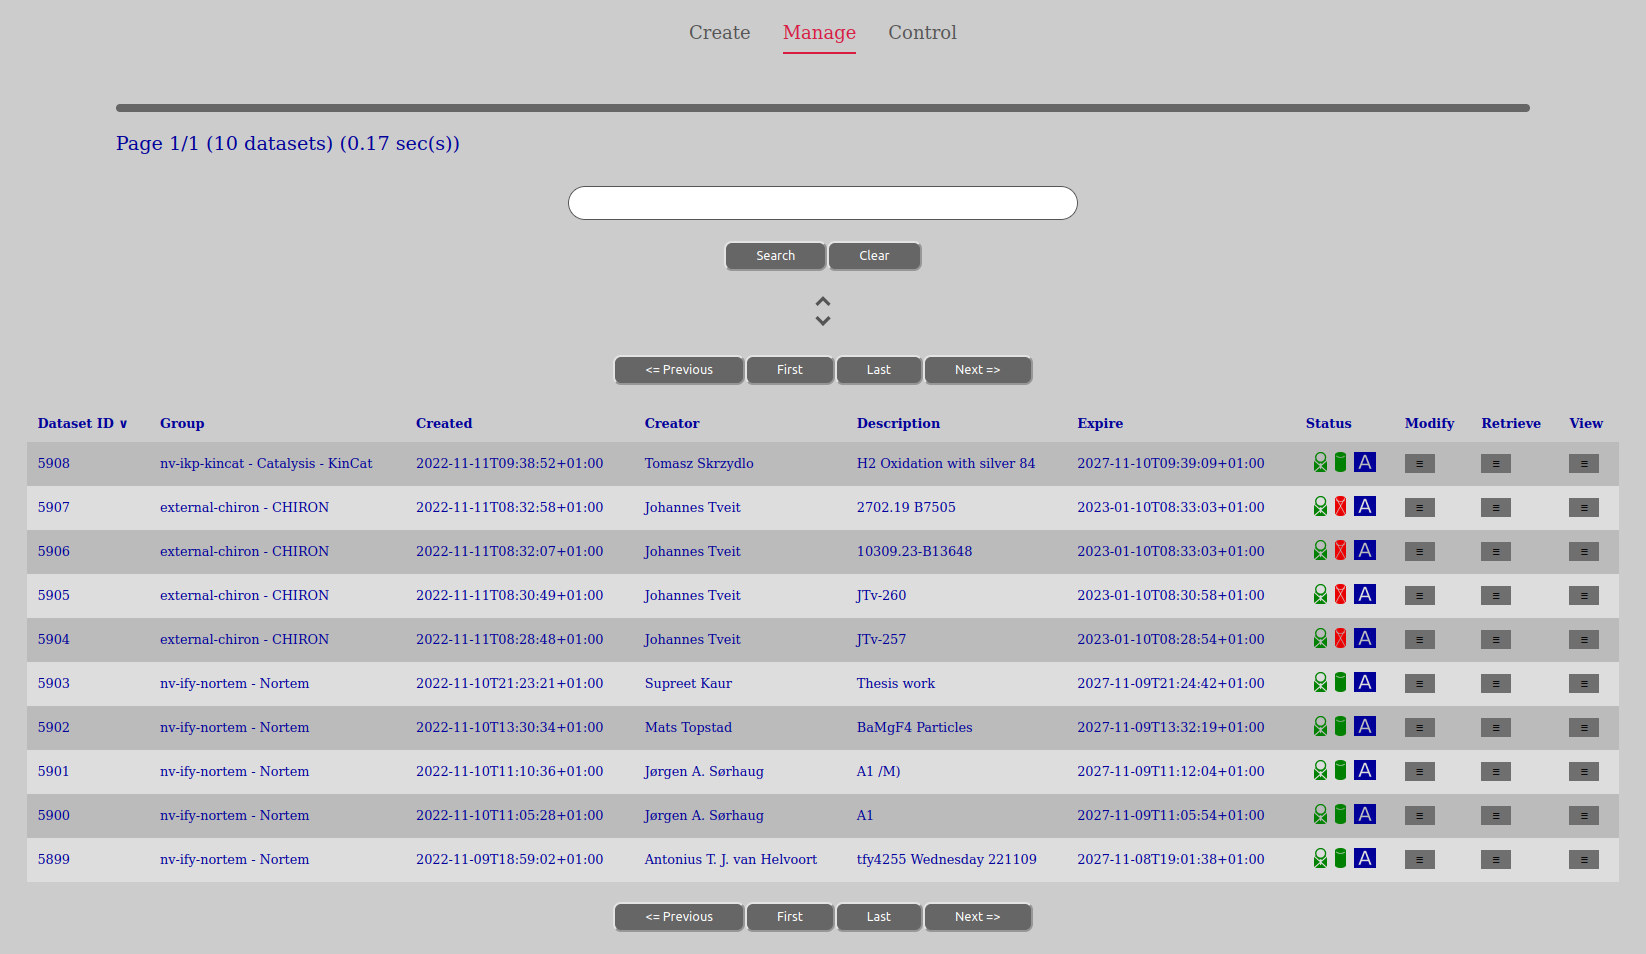
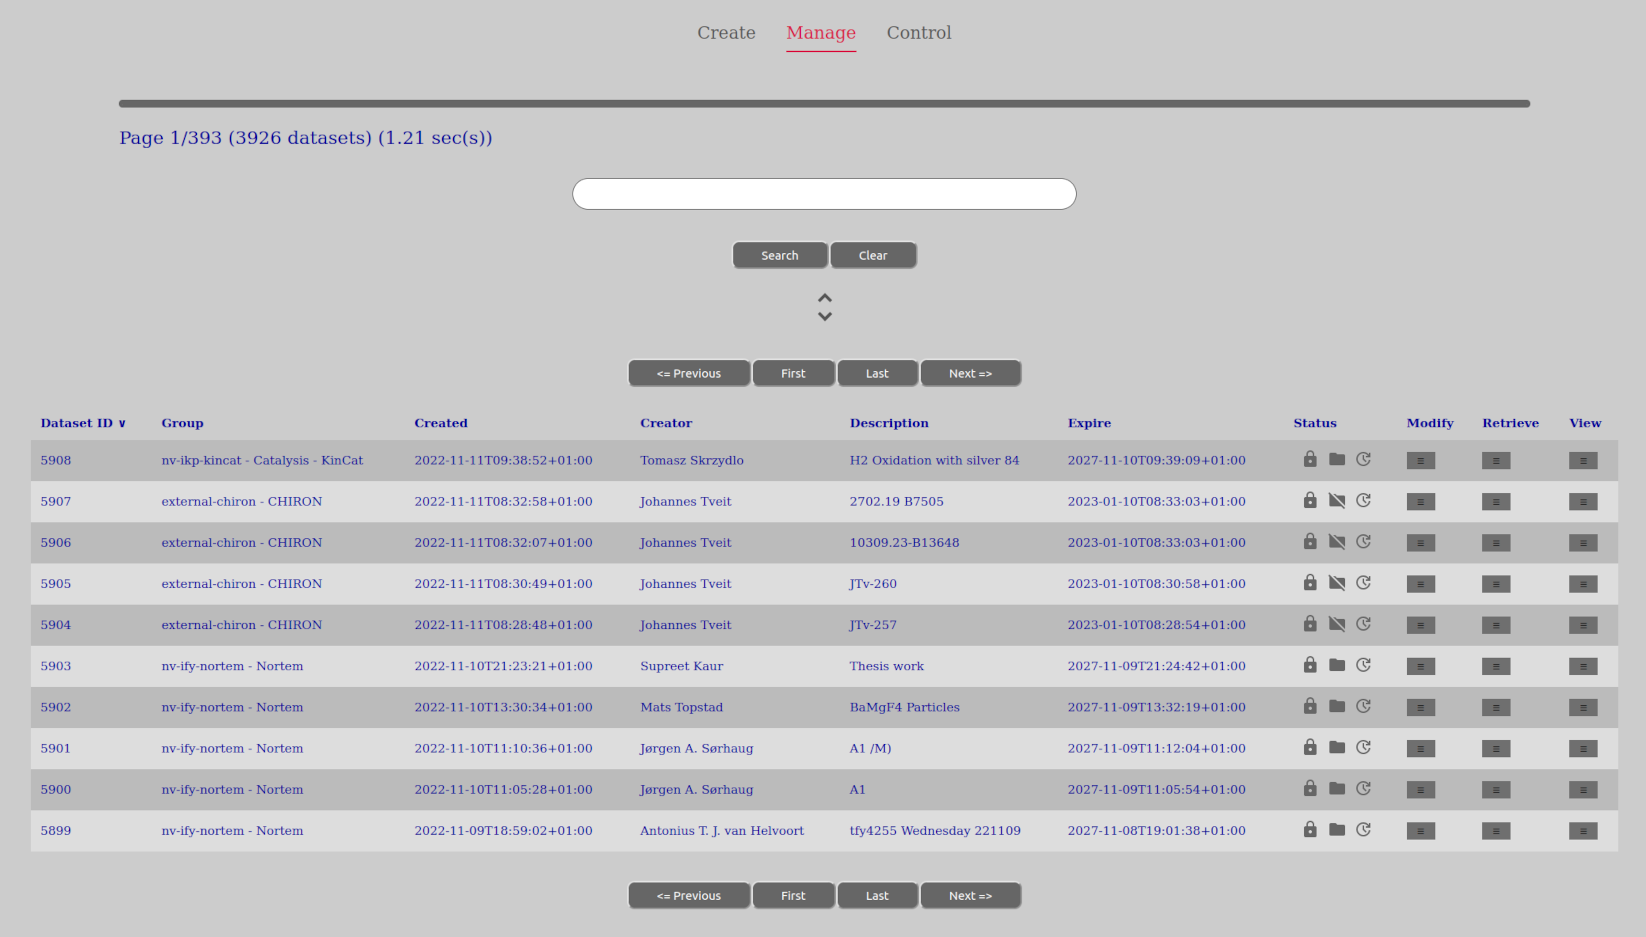
update, updated user docs

diff --git a/client/public/docs/user/index.md b/client/public/docs/user/index.md
@@ -189,11 +189,14 @@ All entries in the "Manage Dataset" have a separate column for "Dataset ID". Thi
 
 Please also note that what choices are available in the drop-down menus in the "Manage Datasets" view (modify, retrieve or view) are entirely dependant upon what phase the dataset is in (open, closed, acquiring etc.) and what permissions the user has. To get more permissions than what you might already have - talk to the laboratory administrators or research group admin.
 
-The status-column show icons for the state of the dataset. The dataset is either in an open (orange, open padlock) or closed (green, closed and crossed out padlock) state. Furthermore the data of the dataset is either present locally in AURORA (green storage symbol) or not present locally in AURORA (red, crossed out storage symbol). By being present locally means that the data is stored in any of AURORAs storage areas. If they are not present locally, they might still exist somewhere else outside of AURORA.
-
-In addition there is a blue and gray symbol that says either "M" or "A" for Manual or Automated dataset type accordingly. This will quickly tell the user what way of acquiring/storing data on the dataset has been selected at the time of creating it. It will also tell the one if the dataset is still waiting for data to be put manually to it while being open, versus an automated dataset still working on acquiring the data for it. It will also show why eg a "close"-option is not available for an automated set beyond a permission issue, since manual closing is only available for manual datasets. Automated datasets are closed by AURORA when it is finished transferring data in the acquire-phase.
+The status-column show icons for the state of the dataset. The dataset is either in an open (orange, open padlock) or closed (gray, closed padlock) state. Furthermore the data of the dataset is either present locally in AURORA (gray folder symbol) or not present locally in AURORA (gray, crossed out folder symbol). By being present locally means that the data is stored in any of AURORAs storage areas. If they are not present locally, they might still exist somewhere else outside of AURORA.
 
 ![Manage Datasets Status Icons](../../media/aurora_svelte_manage_dataset_status_icons.png)
+
+
+In addition there is a automated symbol (gray, round arrow with a hour- and minute hand in the center) that are either crossed out or not. If it is crossed out, it is a manual dataset and if it not crossed out it is automated. This will quickly tell the user what way of acquiring/storing data on the dataset has been selected at the time of creating it. Because of this It will also tell the user if the dataset is still waiting for data to be put manually to it while being open, versus an automated dataset still working on acquiring the data for it. It will also show why eg a "close"-option is not available for an automated set beyond a permission issue, since manual closing is only available for manual datasets. Automated datasets are closed by AURORA when it is finished transferring data in the acquire-phase.
+
+![Manage Dataset Status Icons Alternative](../../media/aurora_svelte_manage_dataset_status_icons_alt.png)
 
 ### Datetime format
 
